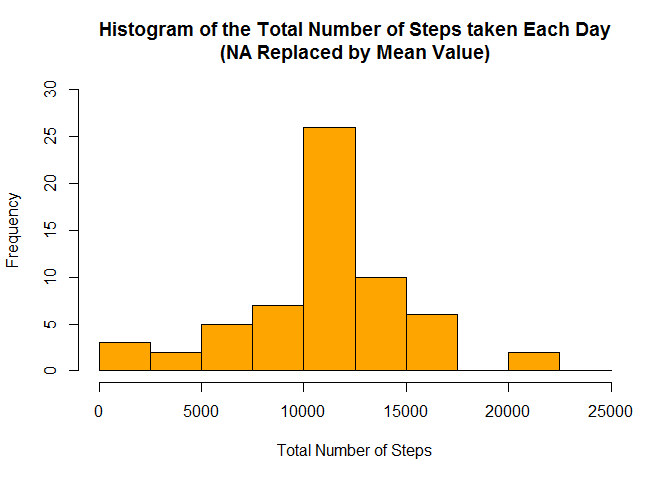
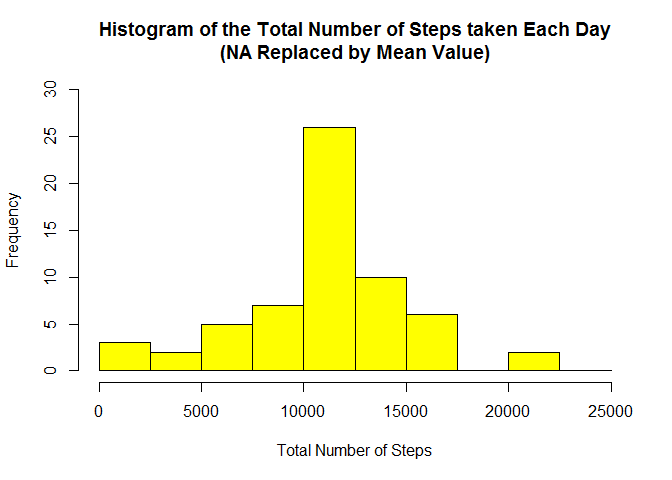
Update commit

Changed region(s): [[0.125, 0.25, 0.6875, 0.7812], [0.75, 0.7188, 0.8438, 0.7812]]

diff --git a/PA1_template.html b/PA1_template.html
@@ -334,11 +334,11 @@ names(sum_data) &lt;- c(&quot;date&quot;, &quot;total&quot;)
 # Compute the histogram of the total number of steps each day
 hist(sum_data$total, 
      breaks=seq(from=0, to=25000, by=2500),
-     col=&quot;orange&quot;, 
+     col=&quot;yellow&quot;, 
      xlab=&quot;Total Number of Steps&quot;, 
      ylim=c(0, 30), 
      main=&quot;Histogram of the Total Number of Steps taken Each Day\n(NA Replaced by Mean Value)&quot;)</code></pre>
[2 lines of base64/hex data omitted]
 <p>The new mean and median are computed like this:</p>
 <pre class="r"><code># The new mean is:
 mean(sum_data$total)</code></pre>

diff --git a/PA1_template.md b/PA1_template.md
@@ -350,7 +350,7 @@ names(sum_data) <- c("date", "total")
 # Compute the histogram of the total number of steps each day
 hist(sum_data$total, 
      breaks=seq(from=0, to=25000, by=2500),
-     col="orange", 
+     col="yellow", 
      xlab="Total Number of Steps", 
      ylim=c(0, 30), 
      main="Histogram of the Total Number of Steps taken Each Day\n(NA Replaced by Mean Value)")
